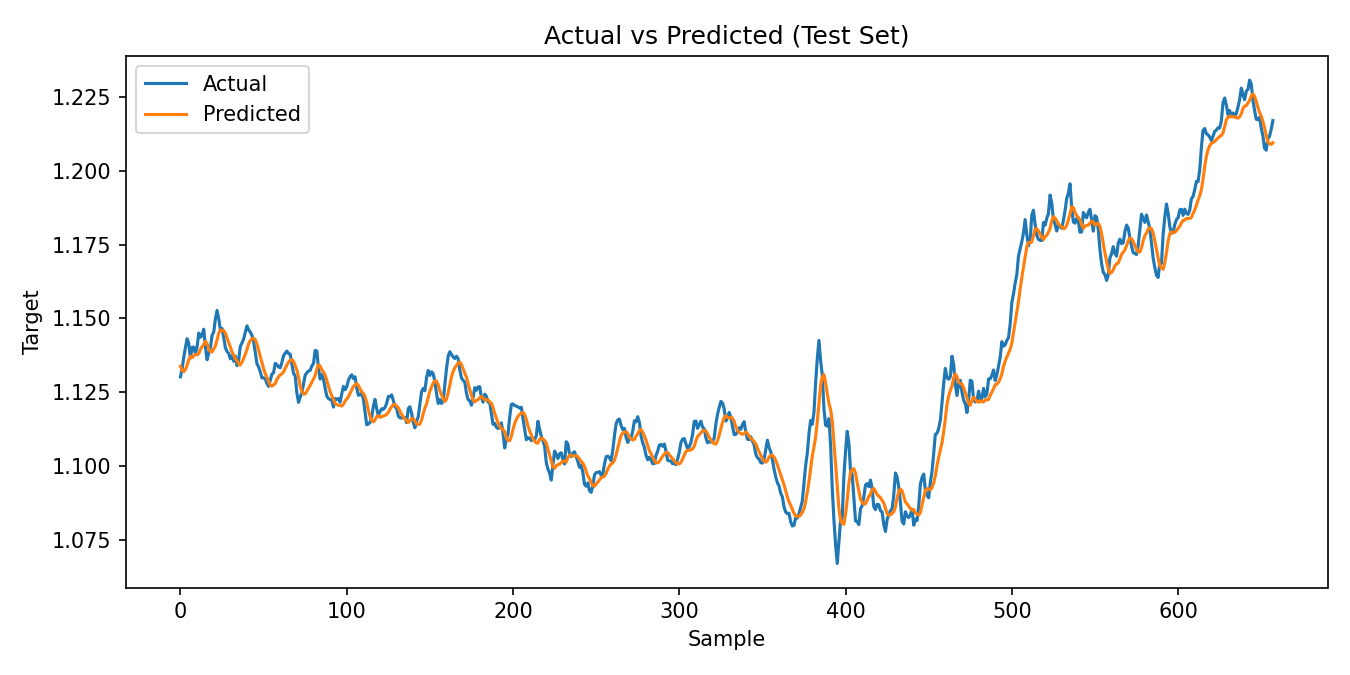
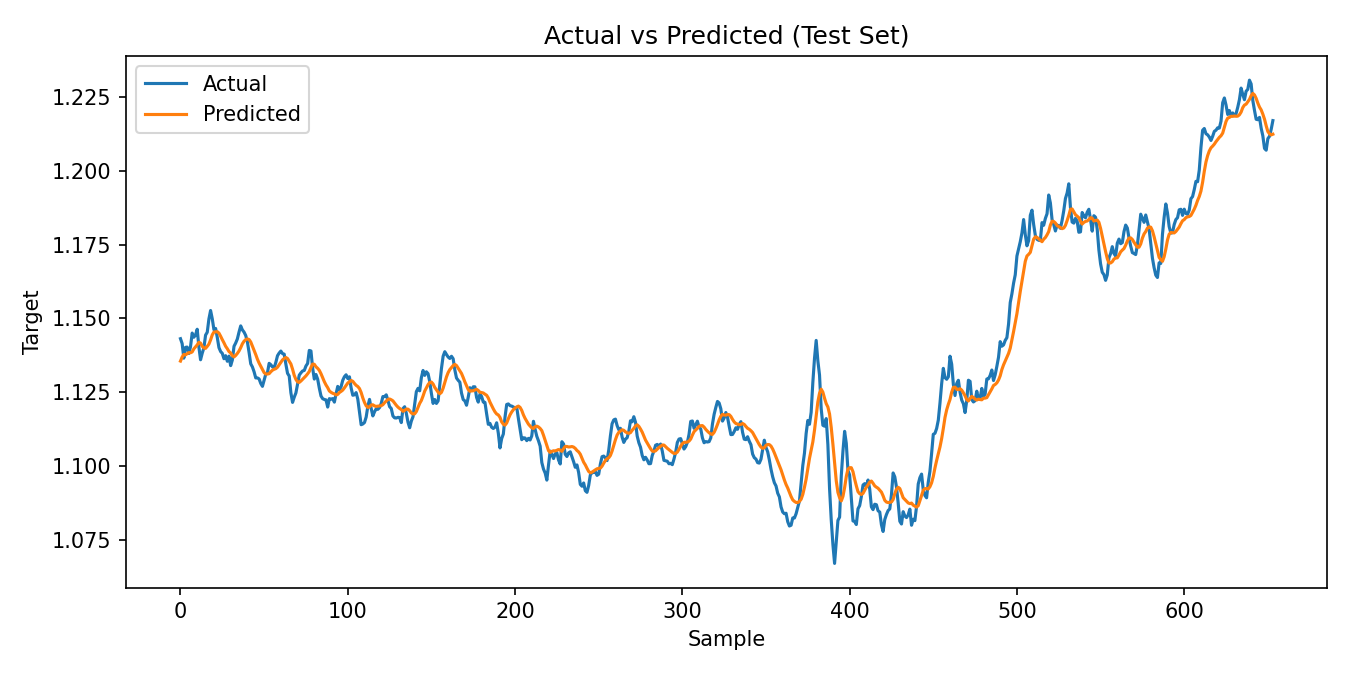
some finetuning

diff --git a/src/models.py b/src/models.py
@@ -6,21 +6,32 @@ from .config import UNITS, DROPOUT, LEARNING_RATE, LOSS
 from tensorflow.keras.losses import Huber
 from tensorflow.keras.metrics import RootMeanSquaredError
 from tensorflow.keras.optimizers import Adam
-
+from tensorflow.keras.callbacks import EarlyStopping, ReduceLROnPlateau
+import numpy
 
 def build_models(X_train,y_train, X_val, y_val, epochs):
-    model1 = Sequential([layers.Input((len(X_train.columns),1)),
-                    layers.LSTM(64),
-                    layers.Dense(32, activation = "relu"),
-                    layers.Dense(32, activation = "relu"),
-                    layers.Dense(1)
-                   ])
+    if X_train.ndim == 2:  # (N, T) → (N, T, 1)
+        X_train = X_train[..., None]
+        X_val   = X_val[..., None]
+
+    T = X_train.shape[1]
+    F = X_train.shape[2]
+
+    model1 = Sequential([   layers.Input((T, F)),
+                            layers.LSTM(64),
+                            layers.Dense(32, activation = "relu"),
+                            layers.Dense(32, activation = "relu"),
+                            layers.Dense(1) ])
     model1.compile(
                     loss=Huber(delta=1.0),
                     optimizer=Adam(learning_rate=1e-3),
                     metrics=["mae", "mape", RootMeanSquaredError(name="rmse")])
+    
+    cbs = [ EarlyStopping(monitor="val_loss", patience=5, restore_best_weights=True),
+            ReduceLROnPlateau(monitor="val_loss", patience=3, factor=0.5, verbose=0) ]
 
-    model1.fit(X_train,y_train, validation_data = (X_val, y_val), epochs = epochs)
+    model1.fit(X_train,y_train, validation_data = (X_val, y_val), epochs = epochs, callbacks=cbs)
+    
 
     models = {"model1": model1, "best_model": model1}
     return models

diff --git a/src/evaluate.py b/src/evaluate.py
@@ -7,7 +7,7 @@ import joblib
 from keras.models import load_model
 from sklearn.metrics import mean_absolute_error, mean_squared_error
 
-from .config import MODELS_DIR
+from .config import MODELS_DIR, LOOKBACK_days
 
 
 
@@ -29,7 +29,11 @@ def evaluate(save_metrics: bool = True, save_preds: bool = True, verbose: bool =
     X_test_df = load_pkl("X_test_df")
     y_test    = load_pkl("y_test")
     model = load_best_model()
-    y_pred = model.predict(X_test_df)
+
+    X_test = X_test_df.values.reshape(-1, LOOKBACK_days, 1)
+    y_true = np.asarray(getattr(y_test, "values", y_test)).ravel()
+    y_pred = model.predict(X_test).ravel()
+
 
     mae  = float(mean_absolute_error(y_true, y_pred))
     rmse = float(np.sqrt(mean_squared_error(y_true, y_pred)))
@@ -41,7 +45,10 @@ def evaluate(save_metrics: bool = True, save_preds: bool = True, verbose: bool =
     with open(os.path.join(MODELS_DIR, "metrics.json"), "w", encoding="utf-8") as f:
         json.dump(metrics, f, indent=2)
 
-    joblib.dump(y_pred, os.path.join(MODELS_DIR, "y_pred_test.pkl"))
+    if save_preds:
+        joblib.dump(y_pred, os.path.join(MODELS_DIR, "y_pred_test.pkl"))
+        joblib.dump(y_true, os.path.join(MODELS_DIR, "y_true_test.pkl"))
+        
     return metrics, y_true, y_pred
 
 if __name__ == "__main__":

diff --git a/src/train.py b/src/train.py
@@ -28,6 +28,12 @@ def main():
     X_test_df  = pd.DataFrame(transform(X_test_df,  X_test_df.columns,  scaler),
                                         columns=X_test_df.columns,  index=X_test_df.index)
 
+
+    X_train = X_train_df.to_numpy().reshape(-1, LOOKBACK_days, 1)
+    X_val   = X_val_df.to_numpy().reshape(-1, LOOKBACK_days, 1)
+    X_test  = X_test_df.to_numpy().reshape(-1, LOOKBACK_days, 1)
+
+    
     data_dict = {   "X_train_df": X_train_df,   "y_train": y_train,
                     "X_val_df": X_val_df,       "y_val": y_val,
                     "X_test_df": X_test_df,     "y_test": y_test,   "scaler": scaler }
@@ -35,7 +41,7 @@ def main():
     for key, value in data_dict.items():
         save_object(key, value, MODELS_DIR)
 
-    models = build_models(X_train_df, y_train, X_val_df, y_val, EPOCHS )       # training models
+    models = build_models(X_train, y_train, X_val, y_val, EPOCHS)       # training models
     for key, value in models.items():
         value.save(os.path.join(MODELS_DIR, f"{key}.keras"))                        # not pkl file, using kras library save to save neural network models
     model = models["best_model"]

diff --git a/src/predict.py b/src/predict.py
@@ -2,15 +2,16 @@
 import os, json
 import numpy as np, pandas as pd, joblib
 from keras.models import load_model
-from .config import MODELS_DIR
+from .config import MODELS_DIR, LOOKBACK_days
 
 def predict_rate(x,y):
     model = load_model(os.path.join(MODELS_DIR, "best_model.keras"))
+    X = x.values.reshape(-1, LOOKBACK_days, 1)
     
-    y_pred = model.predict(x)
-    for i in range(len(x)):
-        y1, y2 = round(y_test.iloc[-i],4), round(float(y_pred[i]),4)
-        print(f"original is {y1}, prediciton is {y2}")
+    y_pred = model.predict(x).ravel()
+    y_true = np.asarray(getattr(y, "values", y)).ravel()
+    for i in range(len(y_true)):
+        print(f"original is {y_true[i]:.4f}, prediction is {y_pred[i]:.4f}")
 
 
 if __name__ == "__main__":

diff --git a/src/plot_chart.py b/src/plot_chart.py
@@ -6,6 +6,7 @@ from .config import MODELS_DIR, PROJECT_ROOT
 
 # save plots under static/plots/
 PLOT_DIR = os.path.join(PROJECT_ROOT, "static", "plots")
+os.makedirs(PLOT_DIR, exist_ok=True)
 
 
 def load_artifact(name):

diff --git a/src/split.py b/src/split.py
@@ -1,5 +1,4 @@
 import pandas as pd
-from .config import DATE_COL, TEST_DAYS, VAL_DAYS
 
 def data_split(df: pd.DataFrame, train_size=0.7, val_size=0.15):
     n_train = int(len(df) * train_size)

diff --git a/src/config.py b/src/config.py
@@ -9,7 +9,7 @@ CSV_PATH  = DATA_DIR / "Entire.csv"
 DATE_COL  = "Date"
 TARGET_COL = "ave"
 
-LOOKBACK_days = 15
+LOOKBACK_days = 45
 
 EPOCHS = 20
 BATCH_SIZE = 32
